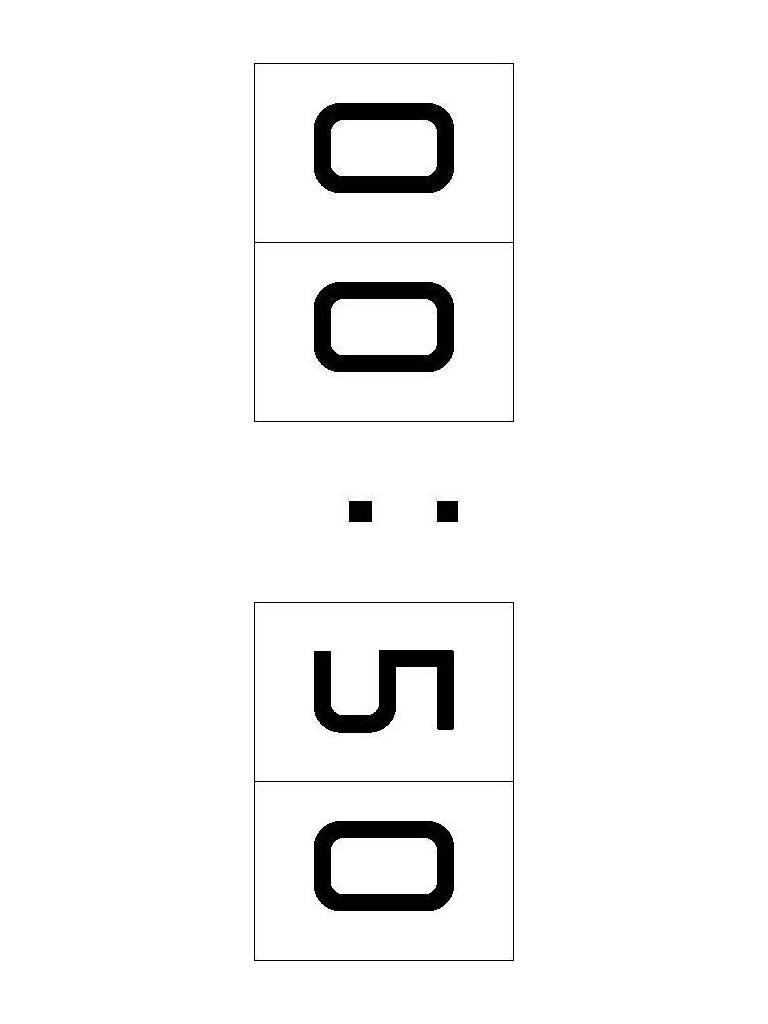
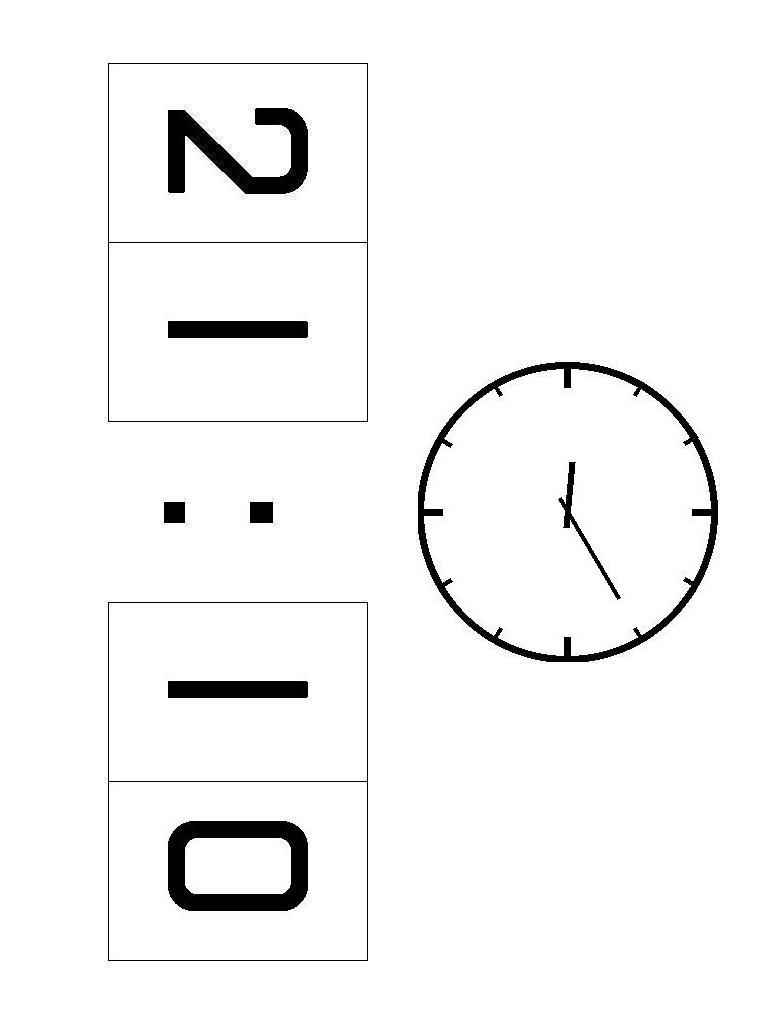
feat: 增加指针时钟

diff --git a/src/components/tickClock.py b/src/components/tickClock.py
@@ -1,0 +1,71 @@
+import datetime
+import os
+import math
+from PIL import Image,ImageDraw
+from kindleWidget import KindleWidget
+
+rootPath = os.path.abspath(os.path.join(os.path.dirname(__file__), ".."))
+
+bgPath = rootPath + "/assets/tick/bg.jpg"
+targetPath = rootPath + "/assets/tick/target.jpg"
+
+class TickClock(KindleWidget):
+  width = 200
+
+  def __init__(self, s_width, s_height, s_rotate, left = 0, top = 0, width = 20, border = True, align = "left", isKindle = False) -> None:
+    super().__init__(s_width, s_height, s_rotate, left, top, isKindle)
+    self.width = width
+    self.align = align
+    self.border = border
+    if(align == "center"):
+      self.left = self.left - int(self.width / 2)
+    elif(align == "right"):
+      self.left = self.left - self.width
+    self.borderWidth = max(self.width // 40, 1)
+    self.tickLen = max(int(self.width / 2 / 6), 3)
+    self.subTickLen = int(self.tickLen / 3 * 2)
+    self.tickWidth = self.borderWidth
+    self.subTickWidth = max(int(self.tickWidth / 3 * 2), 1)
+    self.drawBg()
+
+  def drawBg(self):
+    Himage = Image.new("1", (self.width, self.width), 255)
+    draw = ImageDraw.Draw(Himage)
+    # 表盘边框
+    if(self.border == True):
+      draw.arc([0, 0, self.width, self.width], 0, 360, fill=0, width=self.borderWidth)
+    # 表盘刻度
+    for i in range(12):
+      angle = math.pi * 2 / 12 * i
+      start = self.getRotatePos((self.width/2, self.subTickLen), (self.width/2, self.width/2), angle)
+      end = self.getRotatePos((self.width/2, 0), (self.width/2, self.width/2), angle)
+      draw.line(start + end, fill=0, width=self.subTickWidth)
+    for i in range(4):
+      angle = math.pi * 2 / 4 * i
+      start = self.getRotatePos((self.width/2, self.tickLen), (self.width/2, self.width/2), angle)
+      end = self.getRotatePos((self.width/2, 0), (self.width/2, self.width/2), angle)
+      draw.line(start + end, fill=0, width=self.tickWidth)
+    Himage.save(bgPath)
+    Himage.close()
+
+  def draw(self, timeNow):
+    Himage = Image.open(bgPath)
+    draw = ImageDraw.Draw(Himage)
+
+    # 表盘指针
+    minuteAngle = timeNow.minute * (math.pi * 2 / 60)
+    hourAngle = (timeNow.hour % 12) * (math.pi * 2 / 12) + minuteAngle / (math.pi * 2) * (math.pi * 2 / 12)
+
+    hourStart = self.getRotatePos((self.width/2, self.tickLen * 4), (self.width/2, self.width/2), hourAngle)
+    hourEnd = self.getRotatePos((self.width/2, self.width/2 + self.subTickLen), (self.width/2, self.width/2), hourAngle)
+    draw.line(hourStart + hourEnd, fill=0, width=self.tickWidth)
+
+    minuteStart = self.getRotatePos((self.width/2, self.tickLen * 2), (self.width/2, self.width/2), minuteAngle)
+    minuteEnd = self.getRotatePos((self.width/2, self.width/2 + self.subTickLen), (self.width/2, self.width/2), minuteAngle)
+    draw.line(minuteStart + minuteEnd, fill=0, width=self.subTickWidth)
+    self.saveImg(Himage, targetPath)
+    self.render(targetPath, self.width, self.width, 0, 0)
+
+# timeNow = datetime.datetime.now()
+# test = TickClock(1024, 768, True, 512, 234, width=300, align="center", border=False)
+# test.draw(timeNow)

diff --git a/src/layout.py b/src/layout.py
@@ -3,7 +3,7 @@ import time
 import datetime
 import threading
 from PIL import Image
-from components import numClock
+from components import *
 from configparser import ConfigParser
 
 rootPath = os.path.abspath(os.path.dirname(__file__))
@@ -35,7 +35,8 @@ def clear():
 def draw():
   clearCount = 0 # 重置屏幕时间
   clear()
-  clock1 = numClock.NumClock(configMap["width"], configMap["height"], configMap["rotate"] == 1, 512, 254, 200, True, "center", isKindle=configMap["mode"] == 1)
+  clock1 = NumClock(configMap["width"], configMap["height"], configMap["rotate"] == 1, 512, 400, 200, True, "center", isKindle=configMap["mode"] == 1)
+  clock2 = TickClock(configMap["width"], configMap["height"], configMap["rotate"] == 1, 512, 50, 300, True, "center", isKindle=configMap["mode"] == 1)
   while True:
     clearCount = clearCount - 1
     if (clearCount <= 0):
@@ -45,6 +46,7 @@ def draw():
     timeNow = datetime.datetime.now()
     delta = float(str(timeNow.second) + "." + str(timeNow.microsecond))
     clock1.draw(timeNow)
+    clock2.draw(timeNow)
     time.sleep(60 - delta)
 
 draw()

diff --git a/src/components/kindleWidget.py b/src/components/kindleWidget.py
@@ -1,4 +1,5 @@
 import os
+import math
 from PIL import Image
 
 rootPath = os.path.abspath(os.path.join(os.path.dirname(__file__), ".."))
@@ -52,6 +53,13 @@ class KindleWidget:
     Himage.save(path)
     Himage.close()
 
-
+  # 计算字体居中显示时文字起始坐标
   def getAlignCenterPos(self, str, font, draw, center, top):
     return (center - draw.textlength(str, font=font) / 2, top)
+
+  # 计算点xy绕center旋转angle角度后的坐标
+  def getRotatePos(self, xy: tuple, center: tuple, angle: float):
+    return [
+      (xy[0] - center[0]) * math.cos(angle) - (xy[1] - center[1]) * math.sin(angle) + center[0],
+      (xy[0] - center[0]) * math.sin(angle) + (xy[1] - center[1]) * math.cos(angle) + center[1],
+    ]

diff --git a/src/components/numClock.py b/src/components/numClock.py
@@ -54,7 +54,6 @@ class NumClock(KindleWidget):
     self.render(bgPath, self.width, self.height, 0, 0)
 
   def draw(self, timeNow):
-    print(self.borderWidth, self.borderHeight)
     strtime = timeNow.strftime('%H:%M')
     self.curTime = [strtime[0], strtime[1], strtime[3], strtime[4]]
     for i in range(len(self.curTime)):

diff --git a/src/components/__init__.py b/src/components/__init__.py
@@ -1,3 +1,7 @@
 import os
 import sys
 sys.path.append(os.path.abspath(os.path.dirname(__file__)))
+from numClock import NumClock
+from tickClock import TickClock
+
+__all__ = ["NumClock", "TickClock"]
